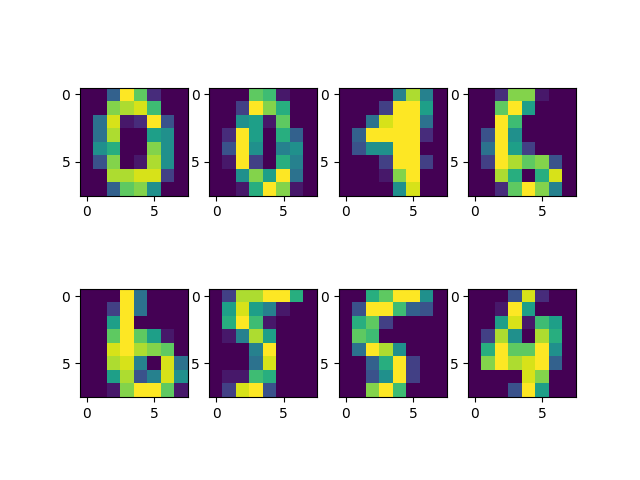
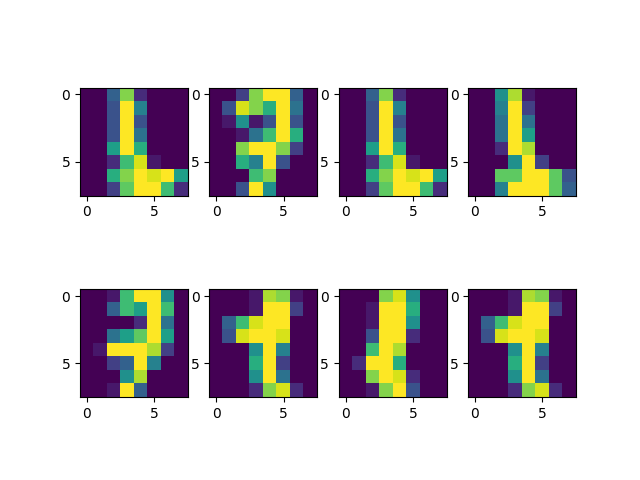
fixed binary dataset preparation and visualization

diff --git a/Mnist/CNN/DataPrep.py b/Mnist/CNN/DataPrep.py
@@ -44,23 +44,21 @@ def create_dataset() -> Dataset:
 
 def create_dataset_binary(class0: int, class1=None) -> Dataset:
     # загружаем датасет
-
-    # нужно взять два класса, например 1 и 7 / 0 и 9
     digits = load_digits()
 
     x = np.array(digits.data)
     y = np.array(digits.target)
 
-    x0, y0 = x[np.where(y == class0)], y[np.where(y == class0)]
+    x0, y0 = x[y == class0], y[y == class0]
 
     if class1 is not None:
-        x1, y1 = x[np.where(y == class1)], y[np.where(y == class1)]
+        x1, y1 = x[y == class1], y[y == class1]
     else:
-        x1, y1 = x[np.where(y != class0)], y[np.where(y != class0)]
+        x1, y1 = x[y != class0], y[y != class0]
 
     x, y = _mix_data(np.vstack((x0, x1)), np.hstack([y0, y1]))
 
     sep = round(len(y) * 0.1)  # ~10% for a test
 
-    return Dataset(testX=np.array(x[sep:]), trainX=np.array(y[:sep]),
-                   testY=np.array(x[sep:]), trainY=np.array(y[:sep]))
+    return Dataset(testX=np.array(x[sep:]), trainX=np.array(x[:sep]),
+                   testY=np.array(y[sep:]), trainY=np.array(y[:sep]))

diff --git a/Mnist/CNN/VisualizeData.py b/Mnist/CNN/VisualizeData.py
@@ -20,11 +20,14 @@ def draw_samples(dataset: Dataset, samples_number: int) -> None:
         fig, axs = plt.subplots(nrows=rows, ncols=4)
         for i in range(samples_number):
             index = np.random.randint(len(dataset.trainY))
-            axs[i // 4, i % 4].imshow(dataset.trainX[index, :].reshape([8, 8]))
+            # print(index)
+            # print(dataset.trainX.shape)
+            axs[i // 4, i % 4].imshow(dataset.trainX[index].reshape([8, 8]))
     else:
         fig, axs = plt.subplots(nrows=rows, ncols=4)
         for i in range(samples_number):
             index = np.random.randint(len(dataset.trainY))
-            axs[i % 4].imshow(dataset.trainX[index, :].reshape([8, 8]))
+            # print(dataset.trainX[index].shape)
+            axs[i % 4].imshow(dataset.trainX[index].reshape([8, 8]))
 
     plt.savefig('Mnist/CNN/Digits.png')

diff --git a/Mnist/CNN/runfile.py b/Mnist/CNN/runfile.py
@@ -1,14 +1,13 @@
-from Mnist.CNN.DataPrep import create_dataset
+from Mnist.CNN.DataPrep import create_dataset, create_dataset_binary
 from Mnist.CNN.VisualizeData import draw_samples
 from Mnist.CNN.Model import Model
 
 
 def run() -> None:
-    digits = create_dataset()
-    print(digits.testX)
-    draw_samples(dataset=digits, samples_number=8)
+    digits = create_dataset_binary(class0=1, class1=7)
+    # draw_samples(dataset=digits, samples_number=8)
 
-    model = Model()
-    model.fit(lr=0.5, sq=1.5, steps=10, clf_task='binary', trainX=digits.trainX, trainY=digits.trainY)
+    # model = Model()
+    # model.fit(lr=0.5, sq=1.5, steps=10, clf_task='binary', trainX=digits.trainX, trainY=digits.trainY)
 
 
